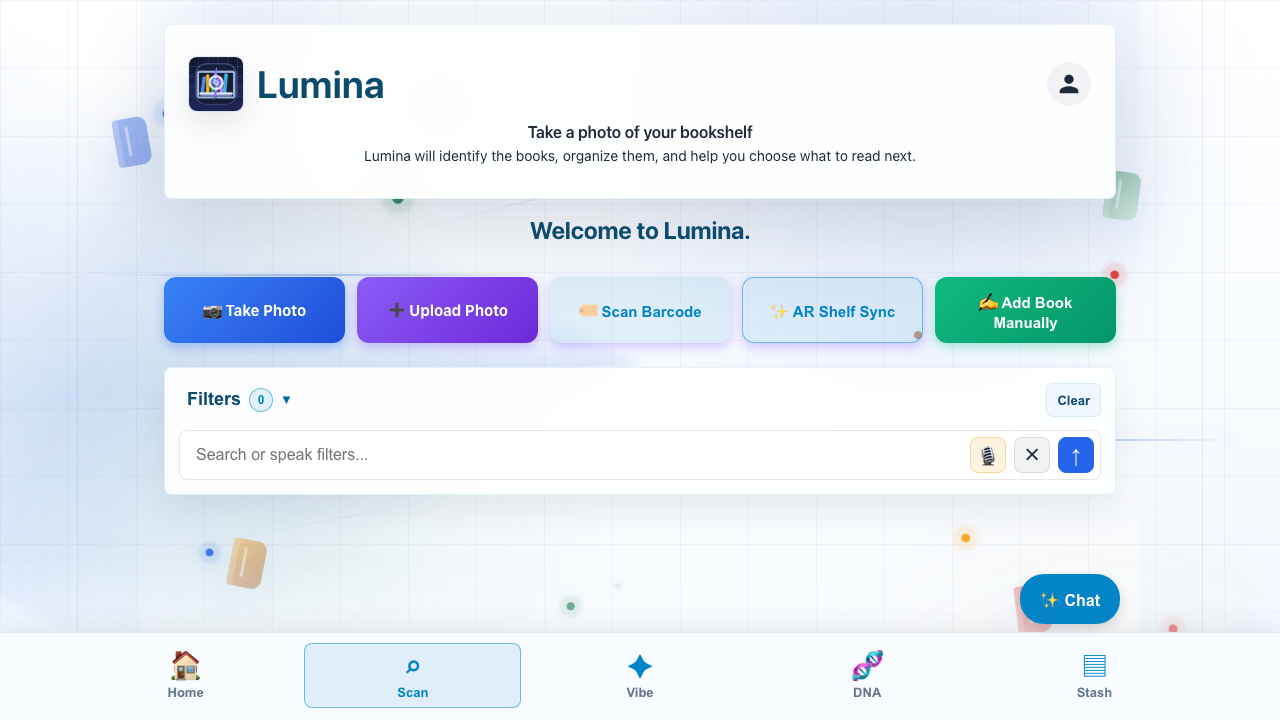
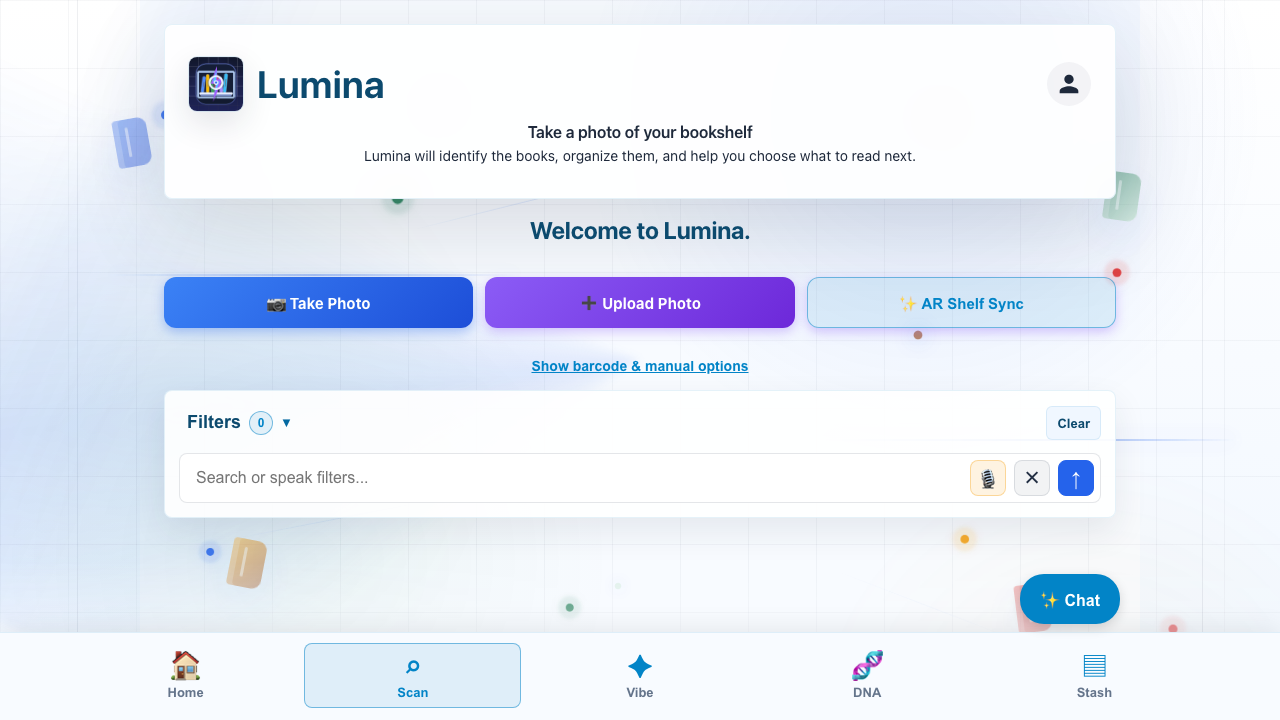
Refactor scanner actions, make options progressive, and remove legacy Gemini code

Changed region(s): [[0.125, 0.3667, 0.875, 0.7333], [0.75, 0.55, 0.875, 0.7028]]

diff --git a/playwright-report/index.html b/playwright-report/index.html
@@ -87,4 +87,4 @@ Error generating stack: `+l.message+`
     <div id='root'></div>
   </body>
 </html>
[2 lines of base64/hex data omitted]

diff --git a/src/App.jsx b/src/App.jsx
@@ -3625,41 +3625,57 @@ Important:
                   </button>
                 </>
               ) : (
-                options.prefix !== "library" && (
-                  <button
-                    type="button"
-                    disabled={books.length < 3}
-                    style={{
-                      ...styles.smallButton,
-                      ...(shelfLocationOpen ? styles.selectedButton : {}),
-                      ...(books.length < 3 ? { opacity: 0.5, cursor: "not-allowed" } : {}),
-                    }}
-                    onClick={(e) => {
-                      e.stopPropagation();
-                      setOpenShelfLocations((locations) => ({
-                        ...locations,
-                        [bookKey]: !shelfLocationOpen,
-                      }));
-                    }}
-                  >
-                    {e("📍", "Locate on Shelf")}
-                  </button>
-                )
-              )}
+                <>
+                  {options.prefix !== "library" && books.length > 1 && (
+                    <button
+                      type="button"
+                      style={{
+                        ...styles.smallButton,
+                        ...(shelfLocationOpen ? styles.selectedButton : {}),
+                      }}
+                      onClick={(e) => {
+                        e.stopPropagation();
+                        setOpenShelfLocations((locations) => ({
+                          ...locations,
+                          [bookKey]: !shelfLocationOpen,
+                        }));
+                      }}
+                    >
+                      {books.length >= 3 ? e("📍", "Locate on Shelf") : e("📍", "Locate")}
+                    </button>
+                  )}
 
-              <button
-                type="button"
-                style={{
-                  ...styles.smallButton,
-                  ...(compareSelected ? styles.selectedButton : {}),
-                }}
-                onClick={(e) => {
-                  e.stopPropagation();
-                  toggleCompare(book);
-                }}
-              >
-                {compareSelected ? "Remove from Compare" : e("⚖", "Compare")}
-              </button>
+                  {options.prefix !== "library" && books.length === 1 && (
+                    <button
+                      type="button"
+                      style={styles.smallButton}
+                      onClick={(e) => {
+                        e.stopPropagation();
+                        setSelectedBook(book);
+                        setSimilarBooksView(null);
+                      }}
+                    >
+                      View Details
+                    </button>
+                  )}
+
+                  {options.prefix !== "library" && books.length > 1 && (
+                    <button
+                      type="button"
+                      style={{
+                        ...styles.smallButton,
+                        ...(compareSelected ? styles.selectedButton : {}),
+                      }}
+                      onClick={(e) => {
+                        e.stopPropagation();
+                        toggleCompare(book);
+                      }}
+                    >
+                      {compareSelected ? "Remove from Compare" : e("⚖", "Compare with other books")}
+                    </button>
+                  )}
+                </>
+              )}
             </div>
 
             {options.prefix !== "library" && shelfLocationOpen && (

diff --git a/src/components/ScanLandingSection.jsx b/src/components/ScanLandingSection.jsx
@@ -1,3 +1,5 @@
+import { useState } from "react";
+
 export default function ScanLandingSection({
   anonymousScanCount,
   authReady,
@@ -32,6 +34,8 @@ export default function ScanLandingSection({
   userScanCount,
   onToggleArMode,
 }) {
+  const [showMoreOptions, setShowMoreOptions] = useState(false);
+
   return (
     <>
       <section
@@ -142,22 +146,6 @@ export default function ScanLandingSection({
             margin: 0,
             background: "var(--accent-bg)",
             color: "var(--accent)",
-          }}
-          onClick={handleBarcodeScan}
-          disabled={isOffline || loading}
-        >
-          {e("🏷", "Scan Barcode")}
-        </button>
-
-        <button
-          type="button"
-          className="btn-press"
-          style={{
-            ...styles.uploadPhotoButton,
-            ...(isOffline ? { opacity: 0.5, cursor: "not-allowed" } : {}),
-            margin: 0,
-            background: "var(--accent-bg)",
-            color: "var(--accent)",
             border: "1px solid var(--accent-border)",
           }}
           onClick={onToggleArMode}
@@ -165,21 +153,62 @@ export default function ScanLandingSection({
         >
           {e("✨", "AR Shelf Sync")}
         </button>
+      </div>
 
+      <div style={{ textAlign: "center", margin: "12px 0" }}>
         <button
           type="button"
-          className="btn-press"
           style={{
-            ...styles.manualBookButton,
-            ...(isOffline ? { opacity: 0.5, cursor: "not-allowed" } : {}),
-            margin: 0,
+            background: "none",
+            border: "none",
+            color: "var(--accent)",
+            cursor: "pointer",
+            fontSize: "14px",
+            textDecoration: "underline",
+            fontWeight: "600",
           }}
-          disabled={isOffline}
-          onClick={openManualBookModal}
+          onClick={() => setShowMoreOptions(prev => !prev)}
         >
-          {e("✍", "Add Book Manually")}
+          {showMoreOptions ? "Hide other scan options" : "Show barcode & manual options"}
         </button>
       </div>
+
+      {showMoreOptions && (
+        <div
+          className="scan-buttons-enter"
+          style={{ ...styles.uploadBox, display: "flex", gap: "12px", justifyContent: "center", flexWrap: "wrap", marginTop: "8px" }}
+        >
+          <button
+            type="button"
+            className="btn-press"
+            style={{
+              ...styles.uploadPhotoButton,
+              ...(isOffline ? { opacity: 0.5, cursor: "not-allowed" } : {}),
+              margin: 0,
+              background: "var(--accent-bg)",
+              color: "var(--accent)",
+            }}
+            onClick={handleBarcodeScan}
+            disabled={isOffline || loading}
+          >
+            {e("🏷", "Scan Barcode")}
+          </button>
+
+          <button
+            type="button"
+            className="btn-press"
+            style={{
+              ...styles.manualBookButton,
+              ...(isOffline ? { opacity: 0.5, cursor: "not-allowed" } : {}),
+              margin: 0,
+            }}
+            disabled={isOffline}
+            onClick={openManualBookModal}
+          >
+            {e("✍", "Add Book Manually")}
+          </button>
+        </div>
+      )}
 
       {renderFilterControls()}
 

diff --git a/e2e/scan.spec.js b/e2e/scan.spec.js
@@ -10,6 +10,9 @@ test.describe('Scanner & Main Feed', () => {
     // Ensure we are on the scan tab
     await page.getByRole('button', { name: '⌕ Scan' }).click();
 
+    // Toggle options to make them visible
+    await page.getByRole('button', { name: 'Show barcode & manual options' }).click();
+
     // Toggle manual entry
     await page.getByRole('button', { name: '✍ Add Book Manually' }).click();
 
@@ -20,6 +23,9 @@ test.describe('Scanner & Main Feed', () => {
 
   test('should open barcode scanner', async ({ page }) => {
     await page.getByRole('button', { name: '⌕ Scan' }).click();
+
+    // Toggle options to make them visible
+    await page.getByRole('button', { name: 'Show barcode & manual options' }).click();
 
     // We expect the native barcode scanner to be mocked or at least not crash
     // Since it relies on Capacitor, the web fallback or button should exist

diff --git a/src/test/ScanLandingSection.test.jsx b/src/test/ScanLandingSection.test.jsx
@@ -55,6 +55,10 @@ describe("ScanLandingSection", () => {
     );
 
     expect(screen.getByText("Good evening")).toBeTruthy();
+    
+    // Toggle options to make them visible
+    fireEvent.click(screen.getByRole("button", { name: "Show barcode & manual options" }));
+
     expect(screen.getByRole("button", { name: "Scan Barcode" })).toBeTruthy();
     expect(screen.getByRole("button", { name: "Add Book Manually" })).toBeTruthy();
     expect(screen.getByText("Filters")).toBeTruthy();
@@ -98,6 +102,9 @@ describe("ScanLandingSection", () => {
         userScanCount={0}
       />
     );
+
+    // Toggle options to make them visible
+    fireEvent.click(screen.getByRole("button", { name: "Show barcode & manual options" }));
 
     fireEvent.click(screen.getByRole("button", { name: "Add Book Manually" }));
     expect(openManualBookModal).toHaveBeenCalled();

diff --git a/functions/index.test.js b/functions/index.test.js
@@ -4,7 +4,7 @@ import test from 'node:test';
 
 process.env.ANTHROPIC_API_KEY = 'test-anthropic-key';
 
-const { generateClaudeContent, generateGeminiContent } = await import('./index.js');
+const { generateClaudeContent } = await import('./index.js');
 
 function successfulClaudeResponse() {
   return {
@@ -52,8 +52,4 @@ async function verifyClaudeOnly(callable) {
 
 test('new callable uses only Claude 4.5 Haiku', async () => {
   await verifyClaudeOnly(generateClaudeContent);
-});
-
-test('legacy callable is also Claude-only for older app versions', async () => {
-  await verifyClaudeOnly(generateGeminiContent);
 });

diff --git a/functions/index.js b/functions/index.js
@@ -422,9 +422,6 @@ function createClaudeCallable() {
 
 export const generateClaudeContent = createClaudeCallable();
 
-// Compatibility endpoint for older app versions. It is intentionally Claude-only.
-export const generateGeminiContent = createClaudeCallable();
-
 export const searchGoogleBooks = onCall(
   {
     region: 'us-central1',
